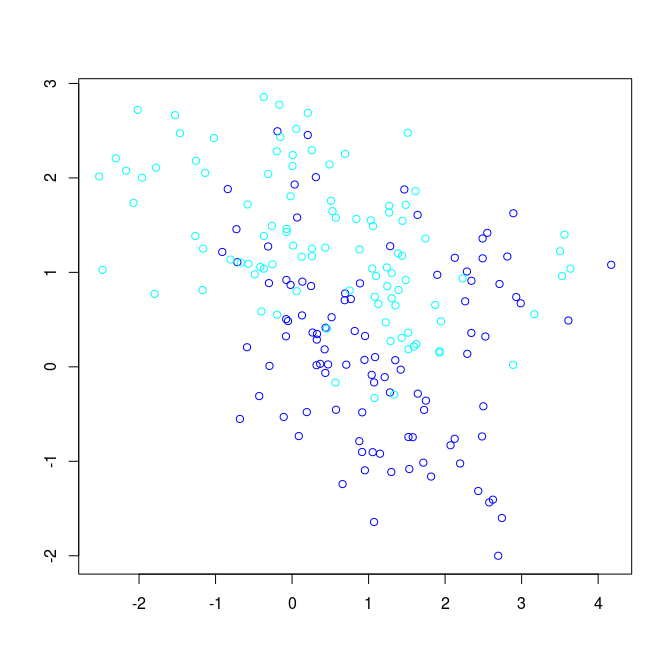
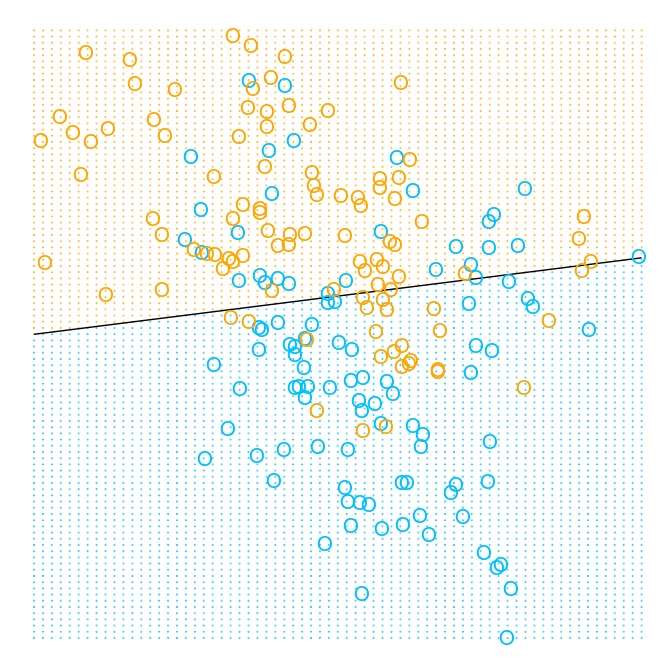
figure 2.1

Changed region(s): [[0.0312, 0.0312, 0.9688, 0.9688]]

diff --git a/2-Overview-Supervised-Learning.md b/2-Overview-Supervised-Learning.md
@@ -4,17 +4,65 @@ Bodo Burger
 2018-05-07
 
 ``` r
-me = ElemStatLearn::mixture.example
+knitr::opts_chunk$set(echo = TRUE,
+                      message = FALSE,
+                      fig.path = "figures/")
+set.seed(123)
+library("mlr")
+library("ggplot2")
+library("ElemStatLearn")
 ```
 
 Linear Models and Least Squares
 ===============================
 
+The data is available from the ElemStatLearn package. We start by creating an MLR task and train the linear model to predict y.
+
+``` r
+me = ElemStatLearn::mixture.example
+df = data.frame(x1 = me$x[,1], x2 = me$x[,2], y = me$y)
+print(df[sample(200, 4),])
+```
+
+    ##              x1         x2 y
+    ## 58  -0.07711446 0.50512168 0
+    ## 157  3.16697155 0.55694663 1
+    ## 81   0.47080879 0.02543855 0
+    ## 174  1.94542944 0.48108050 1
+
+``` r
+tsk = makeRegrTask(data = df, target = "y")
+lrn.lm = makeLearner("regr.lm")
+mod.lm = train(lrn.lm, tsk)
+betas = coefficients(getLearnerModel(mod.lm))
+print(betas)
+```
+
+    ## (Intercept)          x1          x2 
+    ##   0.3290614  -0.0226360   0.2495983
+
+The function for the decision boundary is determined by the estimated coefficients of the model. We set the threshold to .5.
+
+``` r
+db = function(db.x1, coef = betas) {
+  (coef[3])^-1 * (0.5 - coef[1] - coef[2] * db.x1)
+}
+```
+
 Figure 2.1. Classification with linear regression
 -------------------------------------------------
 
 ``` r
-plot(me$x, col = (me$y+4), ann = FALSE)
+grid = expand.grid(x1 = me$px1, x2 = me$px2)
+grid["y"] = factor(ifelse(grid$x2 > db(grid$x1), 1, 0))
+db.x1 = c(min(me$px1), max(me$px1))
+db.x2 = db(db.x1)
+ggplot(show.legend = FALSE) + 
+  geom_point(aes(x = grid$x1, y = grid$x2, col = grid$y), shape = 19, size = .2, alpha = .5, show.legend = FALSE) +
+  geom_line(aes(x = db.x1, y = db.x2)) +
+  geom_point(aes(x = me$x[,1], y = me$x[,2], col = factor(me$y)), shape = "O", size = 4, stroke = 2, show.legend = FALSE) +
+  scale_colour_manual(values = c("deepskyblue", "orange")) +
+  theme_void()
 ```
 
 ![](figures/figure-2.1-1.png)

diff --git a/99-Notes.md b/99-Notes.md
@@ -3,4 +3,7 @@ Notes
 Bodo Burger
 May 4, 2018
 
--   colors in R: <http://www.stat.columbia.edu/~tzheng/files/Rcolor.pdf>
+-   color names in R: <http://www.stat.columbia.edu/~tzheng/files/Rcolor.pdf>
+-   R graph gallery: <https://www.r-graph-gallery.com/>
+-   colors in ggplot2: <http://www.cookbook-r.com/Graphs/Colors_(ggplot2)/>
+-   ggplo2 reference: <http://ggplot2.tidyverse.org/reference/>
